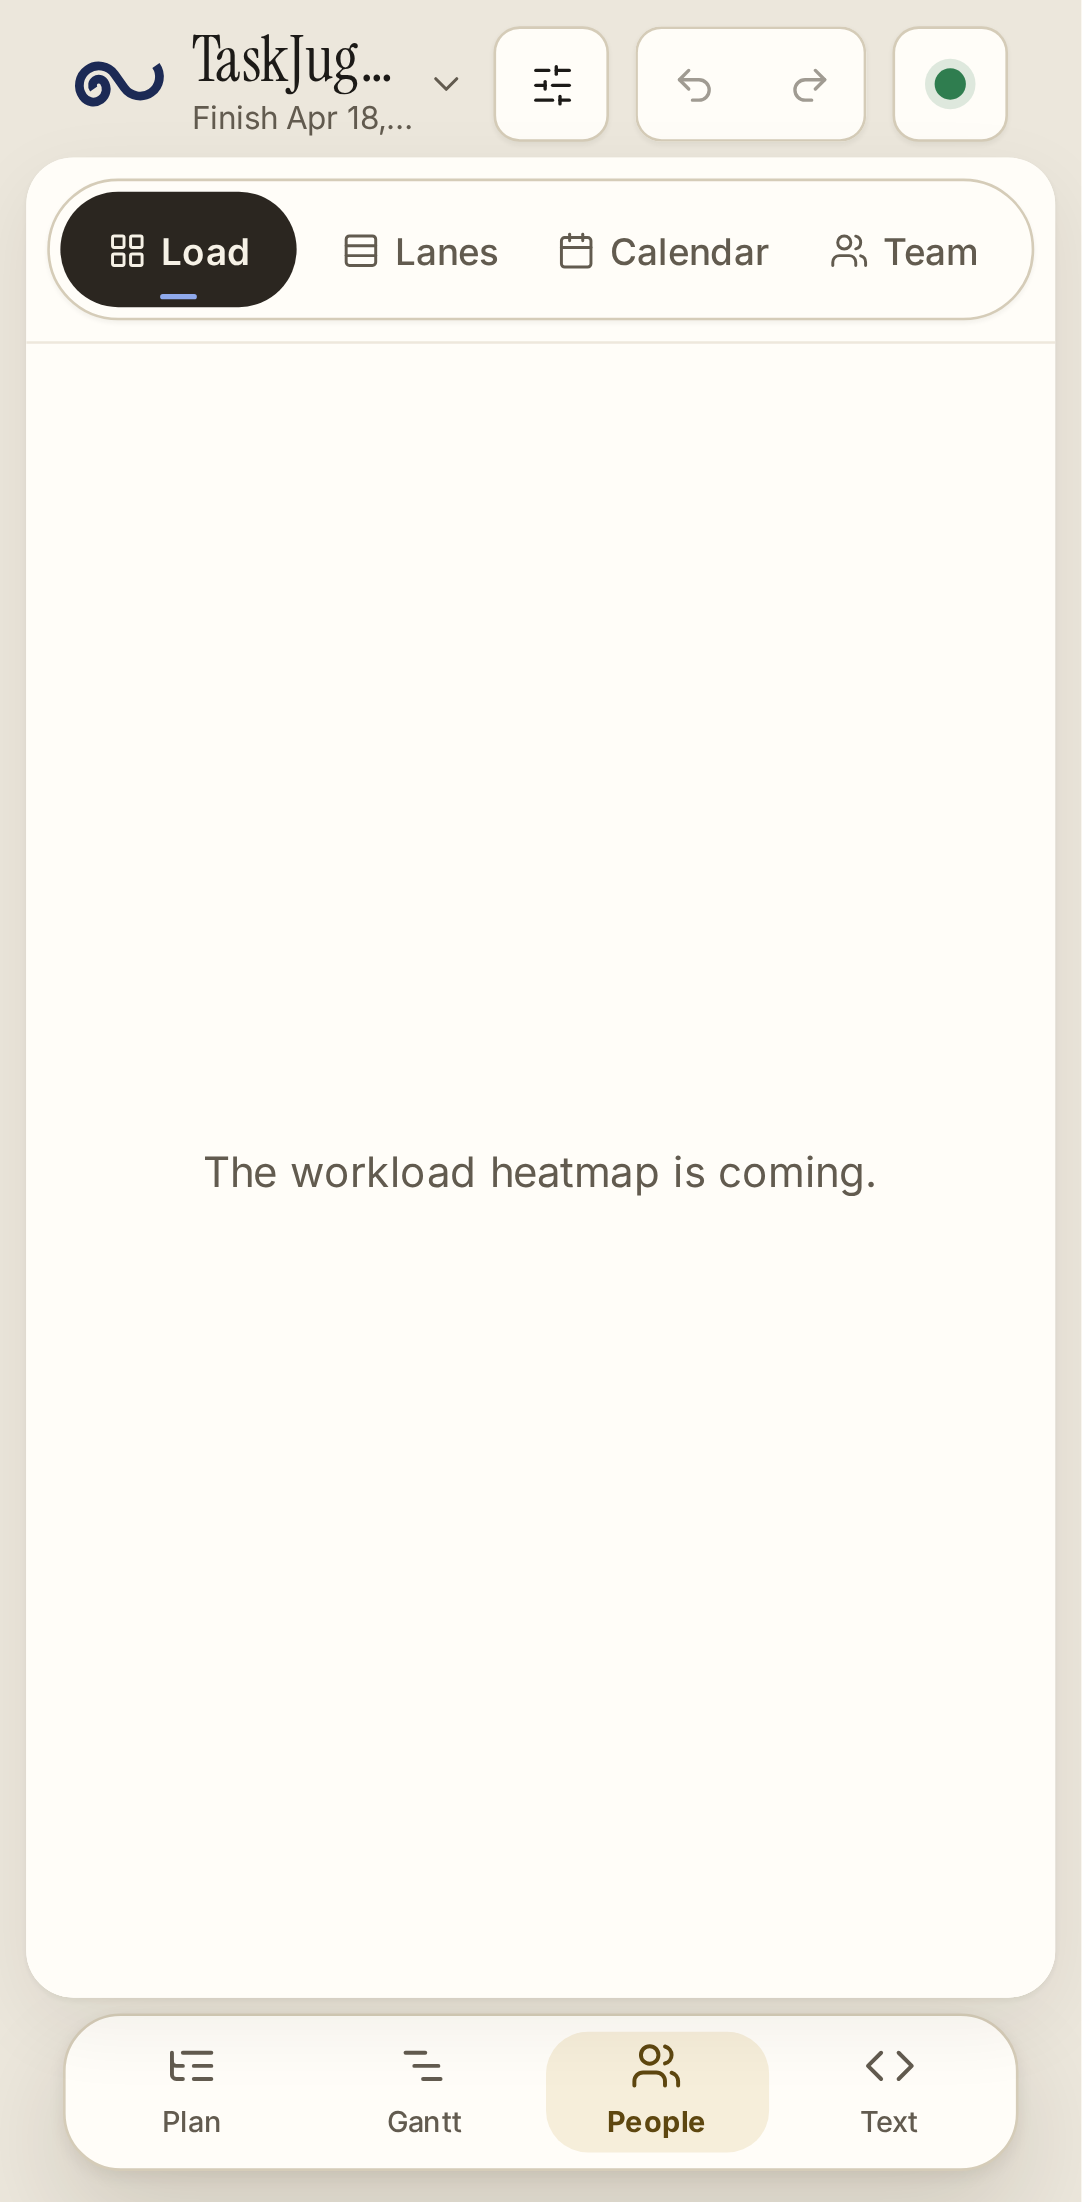
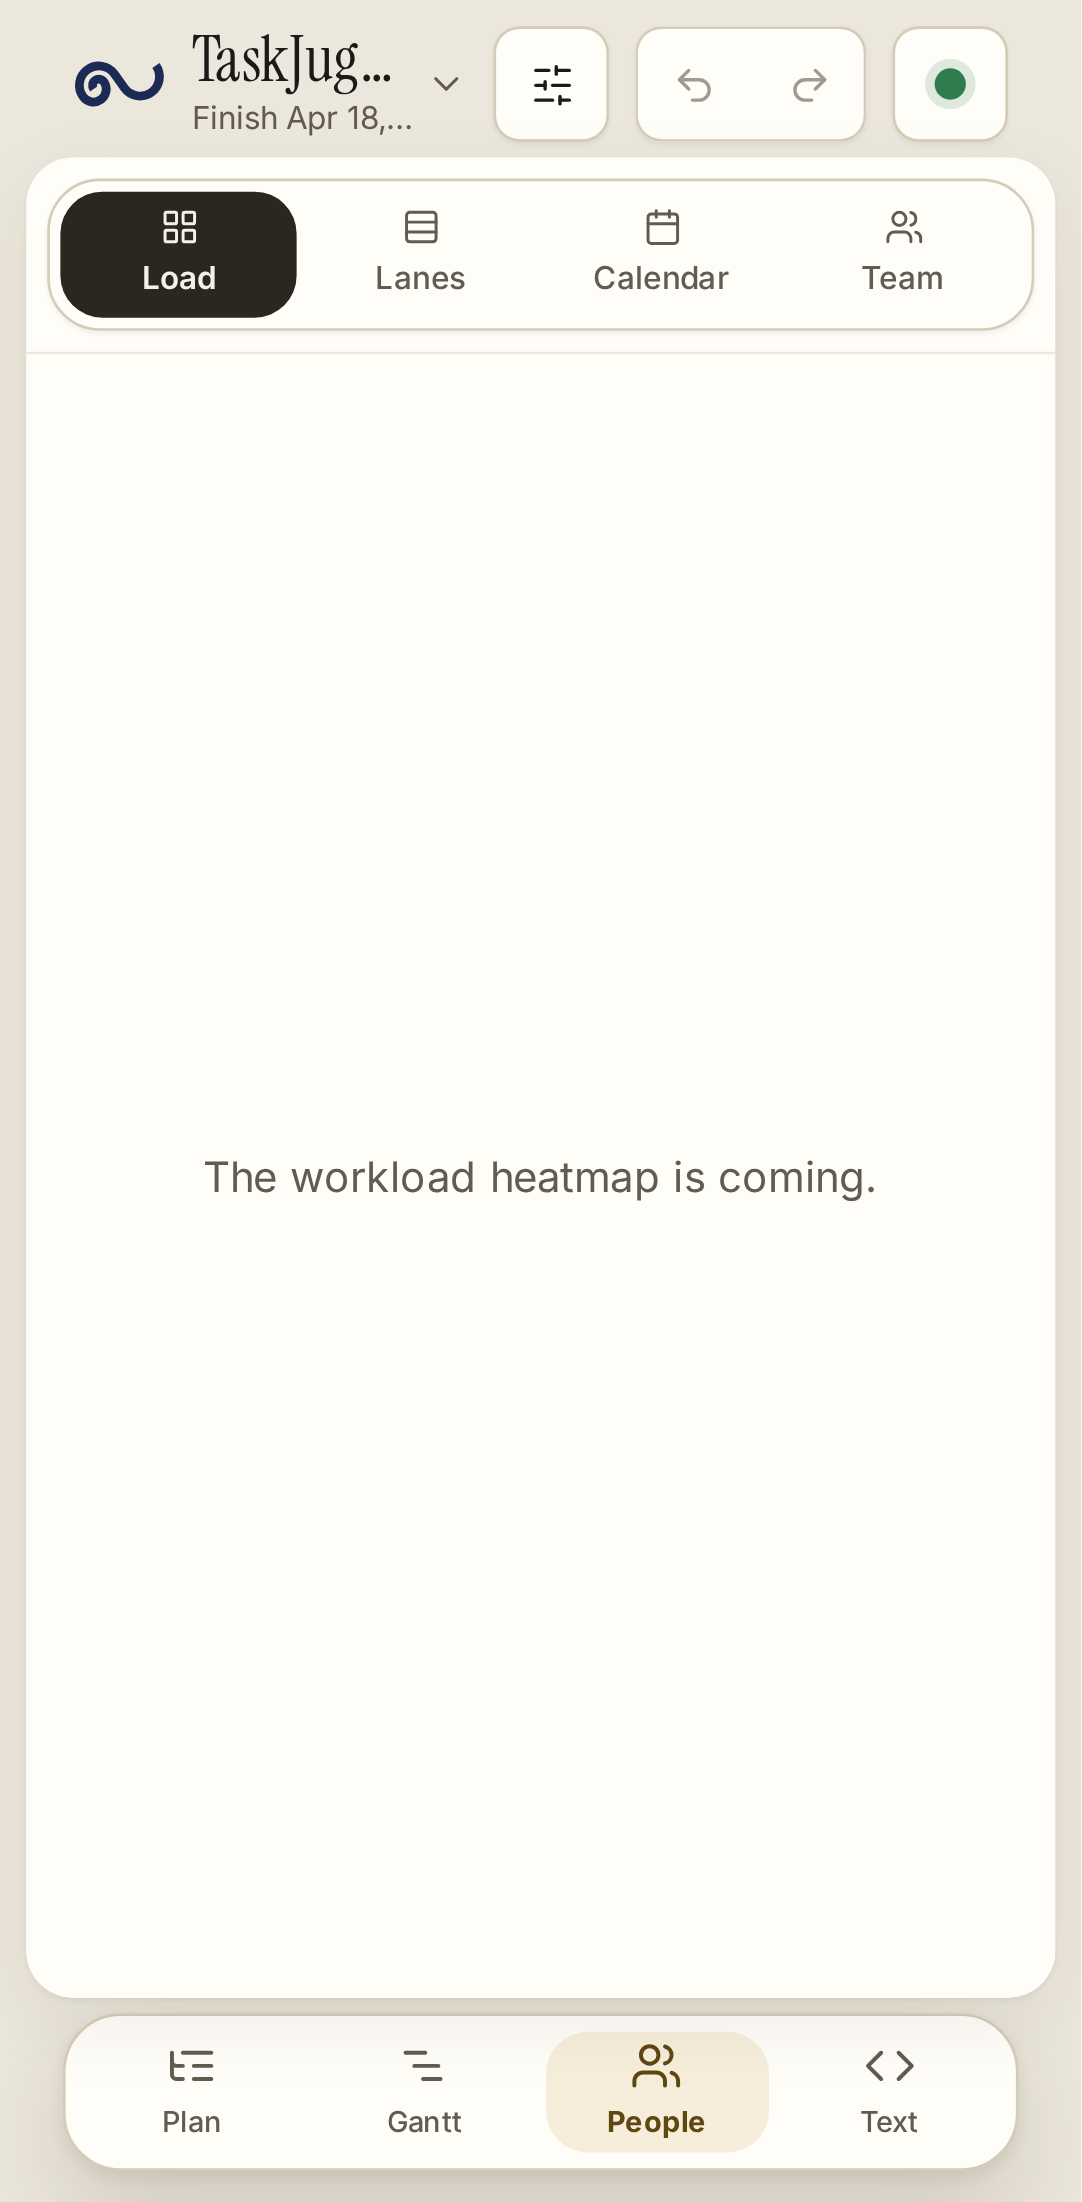
fix(ui): People shell: no shared Gantt chunk, tiers fit the toolbar at 1280, retaken screenshots (T13)
Claude-Session: https://claude.ai/code/session_018x5vMW7RJi75erXSGU1vHa

diff --git a/tests/e2e/people-shell.spec.ts b/tests/e2e/people-shell.spec.ts
@@ -252,7 +252,31 @@ test.describe('the view switcher (desktop and tablet)', () => {
 		});
 	}
 
-	test('in a narrow toolbar (Split beside the editor) the switcher is one menu button', async ({
+	test('with the details docked at 1280 the Gantt toolbar has the menu button; a People view has the radios', async ({
+		page,
+	}) => {
+		// The Gantt's toolbar is about 940 px wide here: the chips keep their labels and the legend, so
+		// four icons do not fit beside them (ViewSwitcher.svelte has the tiers). A People view has no
+		// details dock and no chips, so its bar is wide enough for the icons.
+		await open(page);
+		const menu = viewMenu(page);
+		await expect(menu).toBeVisible();
+		await expect(menu).toHaveValue('gantt');
+		await expect(page.getByRole('radiogroup', { name: 'Views' })).toBeHidden();
+		await menu.selectOption('resources');
+		await expect(page.getByTestId('people-host')).toHaveAttribute('data-content', 'resources', {
+			timeout: READY_TIMEOUT_MS,
+		});
+		await expect(viewRadio(page, 'Resources')).toBeChecked();
+		await expect(viewRadio(page, 'Resources')).toBeFocused();
+		// Back to the Gantt by the radios: the Gantt's menu takes the focus.
+		await viewRadio(page, 'Gantt').click();
+		await expect(page.getByTestId('gantt')).toBeVisible();
+		await expect(viewMenu(page)).toBeFocused();
+		await expect(viewMenu(page)).toHaveValue('gantt');
+	});
+
+	test('Split keeps the editor beside a People view, and Text has no switcher', async ({
 		page,
 	}) => {
 		await page.goto(`/app?sample=${PLAN}&mode=split&view=calendar`);
@@ -260,13 +284,7 @@ test.describe('the view switcher (desktop and tablet)', () => {
 		await expect(page.getByTestId('people-host')).toHaveAttribute('data-content', 'calendar', {
 			timeout: READY_TIMEOUT_MS,
 		});
-		const menu = page.getByRole('combobox', { name: 'Views' });
-		await expect(menu).toBeVisible();
-		await expect(menu).toHaveValue('calendar');
-		await expect(page.getByRole('radiogroup', { name: 'Views' })).toBeHidden();
-		await menu.selectOption('resources');
-		await expect(page.getByTestId('people-host')).toHaveAttribute('data-content', 'resources');
-		await expect(menu).toBeFocused();
+		await expectView(page, 'Calendar');
 		await expect(page.locator('#panel-text .cm-editor')).toBeVisible({
 			timeout: READY_TIMEOUT_MS,
 		});

diff --git a/src/lib/people/add-person.ts b/src/lib/people/add-person.ts
@@ -16,6 +16,7 @@ import type { DispatchOutcome } from '../state/edits.svelte';
 import type { ResourceId } from '../tjp/index';
 import type { EditIntent, TjpEdit } from '../tjp/edit/types';
 import { strings } from '../strings';
+import type { Workspace } from '../workspace/workspace';
 
 /** The outline nodes the spot is counted from (a resolved resource at level 1 is top level). */
 export interface ResourceNodeLike {
@@ -34,6 +35,20 @@ export function addPersonSpot(resources: readonly ResourceNodeLike[]): {
 /** The id an applied `addResource` gave the person, from the header it wrote; null if it is not one. */
 export function newResourceIdFromHeader(header: string): ResourceId | null {
 	return /^resource\s+([A-Za-z_][A-Za-z0-9_]*)\b/.exec(header)?.[1] ?? null;
+}
+
+/**
+ * The text of an applied edit's new header, from the workspace as it is right after the edit. (The
+ * Gantt's `headerAfter` is the same; this one stays out of the Gantt's modules so that the lazy
+ * People chunk imports nothing the first load has to fetch for it.)
+ */
+export function headerOfEdit(
+	app: { readonly workspace: Pick<Workspace, 'snapshot'> | null },
+	edit: TjpEdit,
+): string | null {
+	const at = edit.select;
+	if (!at) return null;
+	return app.workspace?.snapshot().files.get(at.file)?.text.sliceString(at.from, at.to) ?? null;
 }
 
 /** What the flow reads and does; the component passes the app's. */

diff --git a/src/lib/people/add-person.test.ts b/src/lib/people/add-person.test.ts
@@ -6,6 +6,7 @@ import { strings } from '../strings';
 import {
 	addPersonFlow,
 	addPersonSpot,
+	headerOfEdit,
 	newResourceIdFromHeader,
 	type AddPersonEnv,
 } from './add-person';
@@ -30,6 +31,27 @@ describe('newResourceIdFromHeader', () => {
 		expect(newResourceIdFromHeader('resource r2 "R"')).toBe('r2');
 		expect(newResourceIdFromHeader('task a "A"')).toBeNull();
 		expect(newResourceIdFromHeader('resource')).toBeNull();
+	});
+});
+
+describe('headerOfEdit', () => {
+	const doc = { sliceString: (from: number, to: number) => 'resource r "R"\ntask'.slice(from, to) };
+	const app = {
+		workspace: {
+			snapshot: () => ({ files: new Map([['plan.tjp', { text: doc }]]) }),
+		},
+	} as never;
+
+	it('reads the text the edit selected, now', () => {
+		const edit = { select: { file: 'plan.tjp', from: 0, to: 14 } } as unknown as TjpEdit;
+		expect(headerOfEdit(app, edit)).toBe('resource r "R"');
+	});
+
+	it('is null without a selection, a workspace or the file', () => {
+		expect(headerOfEdit(app, {} as TjpEdit)).toBeNull();
+		const at = { select: { file: 'other.tjp', from: 0, to: 3 } } as unknown as TjpEdit;
+		expect(headerOfEdit(app, at)).toBeNull();
+		expect(headerOfEdit({ workspace: null }, at)).toBeNull();
 	});
 });
 

diff --git a/tests/e2e/people-shell-screenshots.spec.ts b/tests/e2e/people-shell-screenshots.spec.ts
@@ -89,7 +89,7 @@ test.describe('people shell screenshots', () => {
 		await light(page, 't13-view-switcher-workload-1500-light.png');
 	});
 
-	test('desktop: 1024 wide, a tablet width, and the compact menu in Split', async ({
+	test('desktop: 1024 wide, a tablet width, and Split beside the editor', async ({
 		page,
 	}, info) => {
 		test.skip(isTouch(info));
@@ -103,10 +103,10 @@ test.describe('people shell screenshots', () => {
 		await light(page, 't13-view-switcher-tablet-820-light.png');
 		await chooseView(page, 'Gantt');
 		await light(page, 't13-view-switcher-gantt-tablet-820-light.png');
-		await page.goto(`/app?sample=upstream-tutorial&mode=split&view=calendar`);
 		await page.setViewportSize({ width: 1280, height: 720 });
+		await page.goto(`/app?sample=upstream-tutorial&mode=split&view=calendar`);
 		await expect(page.getByTestId('people-coming')).toBeVisible({ timeout: READY_TIMEOUT_MS });
-		await light(page, 't13-view-switcher-compact-split-desktop-light.png');
+		await light(page, 't13-view-switcher-split-1280-light.png');
 	});
 
 	test('phone: the People tab with its segments, and "No people"', async ({ page }, info) => {

diff --git a/src/components/people/NoPeople.svelte b/src/components/people/NoPeople.svelte
@@ -8,11 +8,10 @@
 	put the keyboard focus where the empty state was (this button goes away with the state).
 -->
 <script lang="ts">
-	import { addPersonFlow } from '../../lib/people/add-person';
+	import { addPersonFlow, headerOfEdit } from '../../lib/people/add-person';
 	import type { AppState } from '../../lib/state/app.svelte';
 	import { strings } from '../../lib/strings';
 	import Icon from '../Icon.svelte';
-	import { headerAfter } from '../gantt/add-task-flow';
 
 	interface Props {
 		app: AppState;
@@ -34,7 +33,7 @@
 				resources: () => app.outline.resources,
 				dispatch: (intent, o) =>
 					app.edits ? app.edits.dispatch(intent, o) : Promise.resolve({ status: 'cancelled' }),
-				headerOf: (edit) => headerAfter(app, edit),
+				headerOf: (edit) => headerOfEdit(app, edit),
 				select: (rid) => app.selection.selectResource(rid, 'visual'),
 			});
 			if (id !== null) ondone?.(id);

diff --git a/src/components/gantt/GanttToolbar.svelte b/src/components/gantt/GanttToolbar.svelte
@@ -380,8 +380,9 @@
 		color: var(--color-pending);
 		font-weight: 600;
 	}
-	/* A narrow chart (Split) has no room for the word: the icon is the chip. */
-	@container gantt (max-width: 899px) {
+	/* A narrow chart (Split, or a desktop with the details docked, where the view switcher takes the
+	   room) has no room for the word: the icon is the chip. */
+	@container gantt (max-width: 1049px) {
 		.people .lbl {
 			display: none;
 		}
